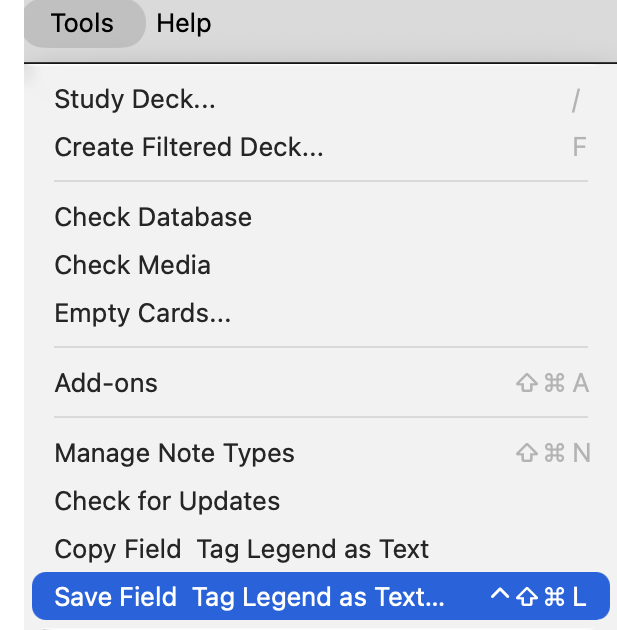
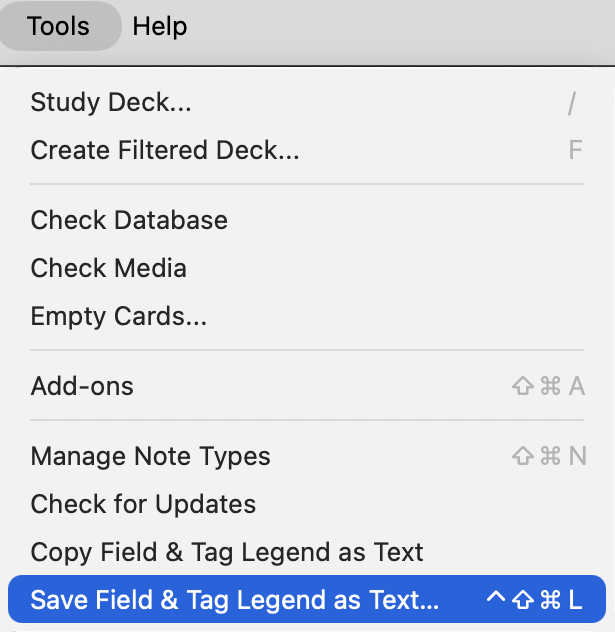
Amend documentation and UI text

diff --git a/export_field_tag_legend_as_text.py b/export_field_tag_legend_as_text.py
@@ -197,8 +197,8 @@ def apply_shortcuts(config: dict) -> None:
     )
 
 
-copy_action = QAction("Copy Field & Tag Legend as Text", mw)
-save_action = QAction("Save Field & Tag Legend as Text…", mw)
+copy_action = QAction("Copy Field && Tag Legend as Text", mw)
+save_action = QAction("Save Field && Tag Legend as Text…", mw)
 
 qconnect(copy_action.triggered, on_copy)
 qconnect(save_action.triggered, on_save)

diff --git a/ANKIWEB.md b/ANKIWEB.md
@@ -19,17 +19,15 @@ Both commands export the same legend: **Copy Field & Tag Legend as Text** places
 
 The legend location, marker, and keyboard shortcuts can be changed under **Tools → Add-ons → Export Field and Tag Legend as Text → Config**. The default configuration is:
 
-```json
-{
-    "location": {
-        "card_type": "Card 1",
-        "note_type": "Basic"
-    },
-    "marker": "# FIELD & TAG LEGEND",
-    "shortcut_copy": "",
-    "shortcut_save": "Meta+Ctrl+Shift+L"
-}
-```
+    {
+        "location": {
+            "card_type": "Card 1",
+            "note_type": "Basic"
+        },
+        "marker": "# FIELD & TAG LEGEND",
+        "shortcut_copy": "",
+        "shortcut_save": "Meta+Ctrl+Shift+L"
+    }
 
 ### Location
 
@@ -47,21 +45,17 @@ The legend must be stored in an HTML comment containing the configured marker:
     
     -->
 
-The marker must occur exactly once in the configured front template. The comment delimiters `<!--` and `-->` and any leading or trailing whitespace are not included in the exported text.
-
-If the configured note type or card type cannot be found, the marker is missing or occurs more than once, or the marker is not inside a complete HTML comment, the add-on reports the problem and exports nothing.
+The marker must occur exactly once in the configured front template. The comment delimiters `<!--` and `-->` and any leading or trailing whitespace are not included in the exported text. If the configured note type or card type cannot be found, the marker is missing or occurs more than once, or the marker is not inside a complete HTML comment, the add-on reports the problem and exports nothing.
 
 The add-on only reads the template; it does not modify the template or any other part of the collection.
 
-<img src="https://raw.githubusercontent.com/schmidhauser/anki-export-field-tag-legend-as-text/refs/heads/main/export_field_tag_legend_as_text-2.png" alt="Field & Tag Legend stored in a card template" width="800">
+<p>
+    <img src="https://raw.githubusercontent.com/schmidhauser/anki-export-field-tag-legend-as-text/refs/heads/main/export_field_tag_legend_as_text-2.png" alt="Field & Tag Legend stored in a card template" width="800">
+</p>
 
 ### Shortcuts
 
-`shortcut_save` sets the shortcut for **Save Field & Tag Legend as Text…** The default shortcut is `Meta+Ctrl+Shift+L` (`⌃⇧⌘L`); set it to `""` to disable it.
-
-`shortcut_copy` sets the shortcut for **Copy Field & Tag Legend as Text**. It is disabled by default.
-
-No restart is required.
+`shortcut_save` sets the shortcut for **Save Field & Tag Legend as Text…** The default shortcut is `Meta+Ctrl+Shift+L` (`⌃⇧⌘L`); set it to `""` to disable it. `shortcut_copy` sets the shortcut for **Copy Field & Tag Legend as Text**. It is disabled by default. No restart is required.
 
 ## Format
 
@@ -94,7 +88,7 @@ is exported as:
     ## Tag Legend
     
     `#df` — Definition
-
+     
 
 ## Compatibility
 

diff --git a/README.md b/README.md
@@ -6,6 +6,10 @@ Ideally this documentation should reside within the collection itself rather tha
 
 **Export Field & Tag Legend as Text** is designed to complement **[Selected Notes to Structured Text](https://github.com/schmidhauser/anki-selected-notes-to-structured-text)** and **[Export Tags as Text](https://github.com/schmidhauser/anki-export-tags-as-text)**. The first exports selected notes, the second exports the collection-wide tag inventory, and this add-on exports the conventions that explain the fields and tags.
 
+## Installation
+
+Install **Export Field & Tag Legend as Text** from [AnkiWeb](https://ankiweb.net/shared/info/1931887561) using add-on code `1931887561`.
+
 ## Usage
 
 <img src="export_field_tag_legend_as_text-1.png" alt="Tools menu with Field & Tag Legend commands" align="right" width="232">
@@ -77,7 +81,8 @@ The exported text is the contents of the matching HTML comment. The `<!--` and `
 
 For example, the template comment:
 
-<!--html
+---html
+<!--
 
 # FIELD & TAG LEGEND
 
@@ -90,6 +95,7 @@ For example, the template comment:
 `#df` — Definition
 
 -->
+---
 
 is exported as:
 

diff --git a/config.md b/config.md
@@ -34,3 +34,4 @@ The add-on only reads the template; it does not modify the template or any other
 
 No restart is required.
 
+On macOS, Qt interprets `Meta` as Control (`⌃`), `Ctrl` as Command (`⌘`), `Alt` as Option (`⌥`), and `Shift` as Shift (`⇧`).
